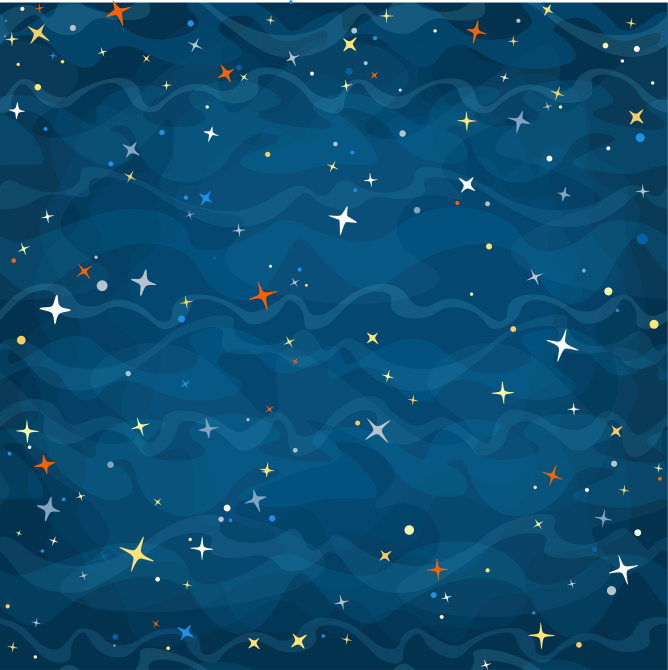
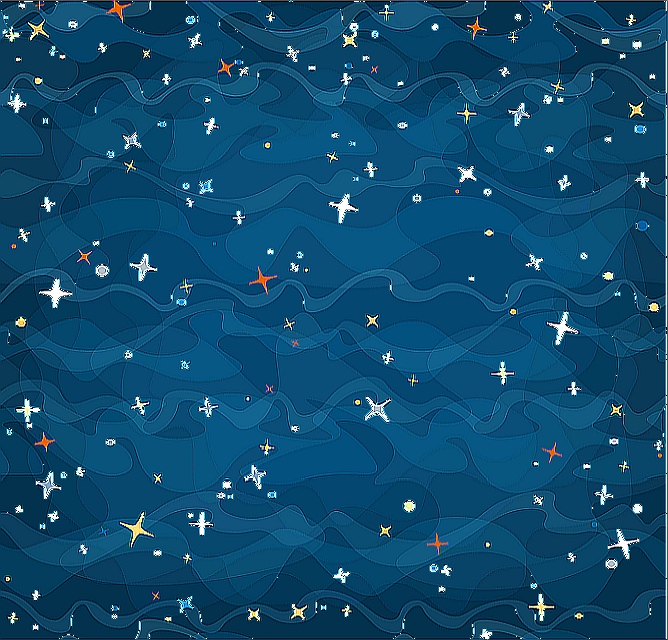
Design fix

diff --git a/Raketa1/Form1.cs b/Raketa1/Form1.cs
@@ -387,7 +387,7 @@ namespace Raketa1
                     {
                         if (preprekaJacina1.Value > 0)
                         {
-                            preprekaJacina1.Value -= 10;
+                            preprekaJacina1.Value -= 20;
                             Controls.Remove(y);
                             y.Dispose();
                         }
@@ -404,7 +404,7 @@ namespace Raketa1
                     {
                         if (preprekaJacina2.Value > 0)
                         {
-                            preprekaJacina2.Value -= 10;
+                            preprekaJacina2.Value -= 20;
                             Controls.Remove(y);
                             y.Dispose();
                         }
@@ -425,6 +425,8 @@ namespace Raketa1
                         if (kontrola2 is PictureBox projektil && (string)projektil.Tag == "projektil" && komet.Bounds.IntersectsWith(projektil.Bounds))
                         {
                             // If komet and projektil intersect, remove both
+                            povecajBodove(2);
+
                             Controls.Remove(komet);
                             komet.Dispose();
 
@@ -544,9 +546,10 @@ namespace Raketa1
         private void StvoriKomet()
         {
             PictureBox komet = new PictureBox();
-            komet.Size = new Size(20, 20);
+            komet.Size = new Size(25, 35);
             komet.ImageLocation = @"Resources\comet.png";
             komet.BackColor = Color.Transparent;
+            komet.SizeMode = PictureBoxSizeMode.StretchImage;
             komet.Top = -komet.Height;
             komet.Left = (int)(0.1 * sirina + 1) + random.Next(0, (int)(0.8 * sirina - komet.Width));
             komet.Tag = "komet";

diff --git a/Raketa1/Properties/Resources.Designer.cs b/Raketa1/Properties/Resources.Designer.cs
@@ -93,6 +93,16 @@ namespace Raketa1.Properties {
         /// <summary>
         ///   Looks up a localized resource of type System.Drawing.Bitmap.
         /// </summary>
+        internal static System.Drawing.Bitmap pozadina1 {
+            get {
+                object obj = ResourceManager.GetObject("pozadina1", resourceCulture);
+                return ((System.Drawing.Bitmap)(obj));
+            }
+        }
+        
+        /// <summary>
+        ///   Looks up a localized resource of type System.Drawing.Bitmap.
+        /// </summary>
         internal static System.Drawing.Bitmap prepreka {
             get {
                 object obj = ResourceManager.GetObject("prepreka", resourceCulture);

diff --git a/Raketa1/StartForm.Designer.cs b/Raketa1/StartForm.Designer.cs
@@ -80,7 +80,7 @@
             this.AutoScaleDimensions = new System.Drawing.SizeF(16F, 38F);
             this.AutoScaleMode = System.Windows.Forms.AutoScaleMode.Font;
             this.BackColor = System.Drawing.Color.Navy;
-            this.BackgroundImage = global::Raketa1.Properties.Resources.pozadina;
+            this.BackgroundImage = global::Raketa1.Properties.Resources.pozadina1;
             this.ClientSize = new System.Drawing.Size(399, 449);
             this.Controls.Add(this.gumbPostavke);
             this.Controls.Add(this.gumbZatvori);

diff --git a/Raketa1/Form1.Designer.cs b/Raketa1/Form1.Designer.cs
@@ -222,6 +222,7 @@
             this.AutoScaleDimensions = new System.Drawing.SizeF(6F, 13F);
             this.AutoScaleMode = System.Windows.Forms.AutoScaleMode.Font;
             this.BackColor = System.Drawing.Color.Navy;
+            this.BackgroundImage = global::Raketa1.Properties.Resources.pozadina1;
             this.ClientSize = new System.Drawing.Size(399, 449);
             this.Controls.Add(this.preprekaJacina2);
             this.Controls.Add(this.preprekaJacina1);
